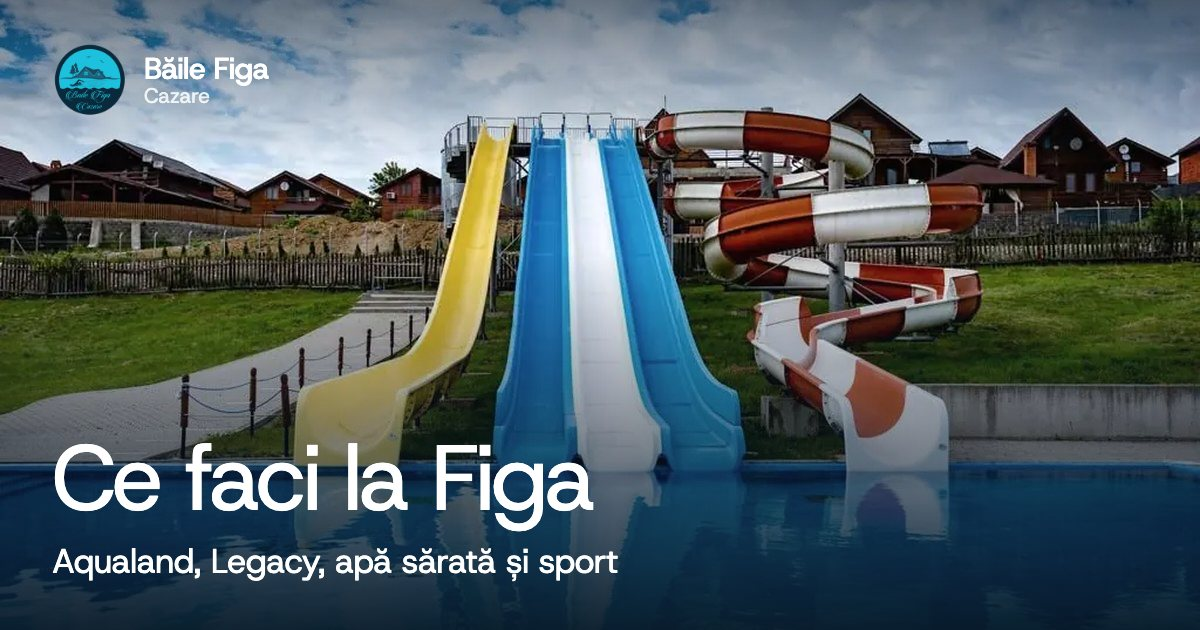
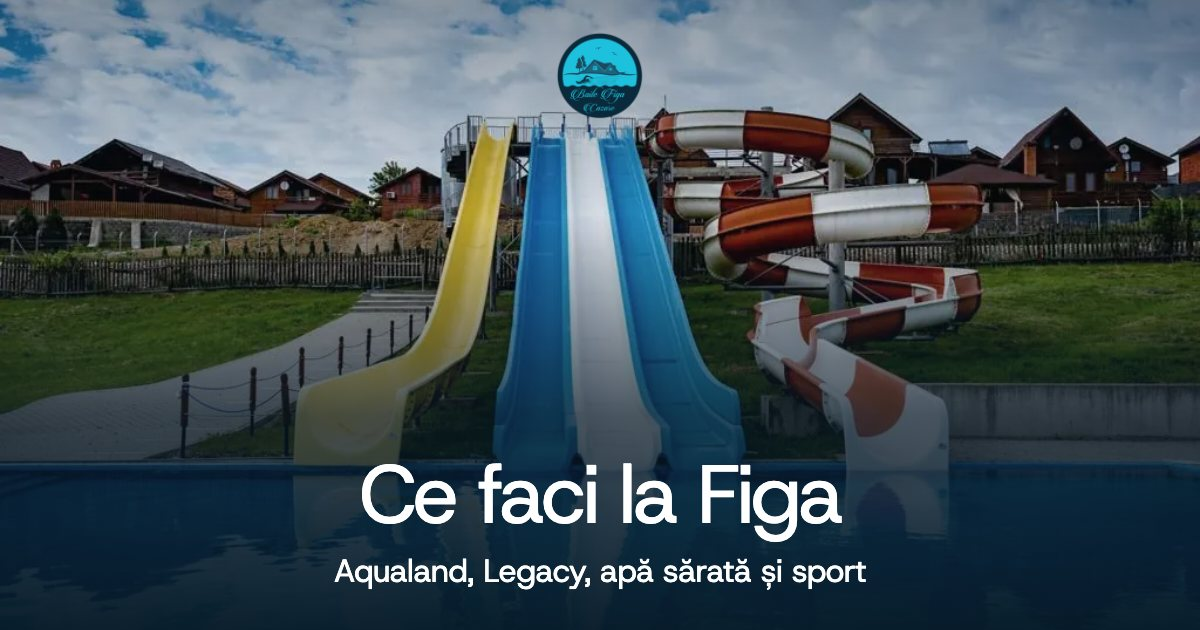
Previzualizări mai bune pentru linkurile trimise
Texte scurte pentru distribuire și imagini centrate, care rămân lizibile când aplicația le decupează pătrat. Adresa publică se setează cu PUBLIC_SITE_URL.

diff --git a/lib/seo.ts b/lib/seo.ts
@@ -6,15 +6,29 @@ const ADDRESS = { "@type": "PostalAddress", streetAddress: "Strada Băile Figa",
 const GEO = { "@type": "GeoCoordinates", latitude: 47.164053, longitude: 24.207428 };
 const TELEPHONE = PHONE.href.replace("tel:", "");
 
+// Texte scurte pentru linkurile trimise: aplicatiile de mesagerie taie textele lungi.
+const SHARE: Record<string, { title: string; description: string }> = {
+  "/": { title: "Băile Figa Cazare", description: "Hotel, cabane și căsuțe la 3 km de Beclean. De la 250 lei pe noapte." },
+  "/cazare": { title: "Cazare la Băile Figa", description: "Hotel, cabane și căsuțe, de la 250 lei pe noapte." },
+  "/cazare/hotel-select": { title: "Hotel Select, Băile Figa", description: "8 camere, 300 lei pe noapte. Rezervări la 0743 092 226." },
+  "/cazare/cabane-panoramic": { title: "Cabane Panoramic, Băile Figa", description: "Până la 12 persoane, 750 lei pe noapte. Rezervări la 0743 092 226." },
+  "/cazare/casute-sebastian": { title: "Căsuțe Sebastian, Băile Figa", description: "Pat king-size și terasă, 250 lei pe noapte. Rezervări la 0743 092 226." },
+  "/terapii-saline": { title: "Terapii saline, Băile Figa", description: "Aerosoli, camera de sare, băi sărate și nămol." },
+  "/ce-faci-la-figa": { title: "Ce faci la Băile Figa", description: "Aqualand, Legacy, apă sărată și sport." },
+  "/galerie": { title: "Galerie foto, Băile Figa", description: "Hotel, cabane, căsuțe și stațiune." },
+  "/contact": { title: "Rezervări Băile Figa", description: "Rezervări la 0743 092 226 sau 0759 021 090." },
+};
+
 // Titlu, descriere, adresa canonica si imaginea de la distribuire, pentru fiecare pagina.
 export function pageMeta({ title, description, path, og }: { title: string; description: string; path: string; og: string }): Metadata {
-  const images = [{ url: `/og/${og}.jpg`, width: 1200, height: 630, alt: title, type: "image/jpeg" }];
+  const share = SHARE[path] ?? { title, description };
+  const images = [{ url: `/og/${og}.jpg`, width: 1200, height: 630, alt: share.title, type: "image/jpeg" }];
   return {
     title,
     description,
     alternates: { canonical: `${SITE_URL}${path === "/" ? "" : path}` },
-    openGraph: { title, description, url: path, siteName: SITE_NAME, locale: "ro_RO", type: "website", images },
-    twitter: { card: "summary_large_image", title, description, images: [`/og/${og}.jpg`] },
+    openGraph: { ...share, url: path, siteName: SITE_NAME, locale: "ro_RO", type: "website", images },
+    twitter: { card: "summary_large_image", ...share, images: [`/og/${og}.jpg`] },
   };
 }
 

diff --git a/lib/site.ts b/lib/site.ts
@@ -4,7 +4,7 @@ export const MAP = "https://www.google.com/maps?q=47.164053,24.207428";
 export const SITE_URL = "https://bailefigacazare.ro";
 // Adresa la care raspunde acum site-ul. Linkurile trimise pe WhatsApp sau Facebook isi iau poza de aici.
 // Vercel o seteaza singur si devine domeniul real dupa ce e conectat.
-export const PUBLIC_URL = process.env.VERCEL_PROJECT_PRODUCTION_URL ? `https://${process.env.VERCEL_PROJECT_PRODUCTION_URL}` : SITE_URL;
+export const PUBLIC_URL = process.env.PUBLIC_SITE_URL ?? (process.env.VERCEL_PROJECT_PRODUCTION_URL ? `https://${process.env.VERCEL_PROJECT_PRODUCTION_URL}` : SITE_URL);
 
 export type Slug = "hotel-select" | "cabane-panoramic" | "casute-sebastian";
 
